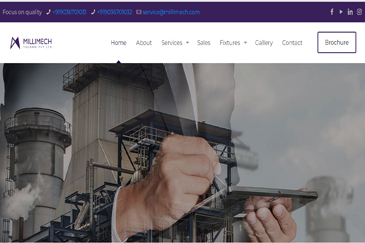
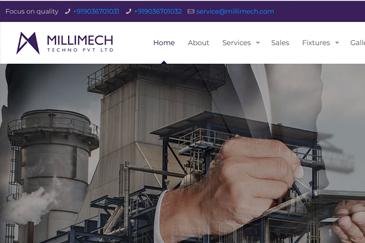
Add files via upload
latest update

diff --git a/projects.html b/projects.html
@@ -229,90 +229,43 @@
 				
                <!-- gallery item -->
               <div class="item email gallery-item">
-                <div class="picframe wow"> <a  class="image-popup" href="images/fb5_t.jpg" target="_blank"> <span class="overlay"> <span class="pf_text"> <span class="project-name">View More</span> </span> </span> <img src="images/fb5_t.jpg" alt="" /> </a> </div>
+                <div class="picframe wow"> <a  class="image-popup" href="images/e1.jpg" target="_blank"> <span class="overlay"> <span class="pf_text"> <span class="project-name">View More</span> </span> </span> <img src="images/e1t.jpg" alt="" /> </a> </div>
               </div>
               <!-- close gallery item --> 
           
               
                <!-- gallery item -->
               <div class="item email gallery-item">
-                <div class="picframe wow"> <a class="image-popup"  href="images/app2.jpg" target="_blank"> <span class="overlay"> <span class="pf_text"> <span class="project-name">View More</span> </span> </span> <img src="images/app2t.jpg" alt="" /> </a> </div>
+                <div class="picframe wow"> <a class="image-popup"  href="images/e2.jpg" target="_blank"> <span class="overlay"> <span class="pf_text"> <span class="project-name">View More</span> </span> </span> <img src="images/e2t.jpg" alt="" /> </a> </div>
               </div>
               <!-- close gallery item --> 
 				
 				 <!-- gallery item -->
               <div class="item email gallery-item">
-                <div class="picframe wow"> <a class="image-popup"  href="images/app3.jpg" target="_blank"> <span class="overlay"> <span class="pf_text"> <span class="project-name">View More</span> </span> </span> <img src="images/app3t.jpg" alt="" /> </a> </div>
+                <div class="picframe wow"> <a class="image-popup"  href="images/e3.png" target="_blank"> <span class="overlay"> <span class="pf_text"> <span class="project-name">View More</span> </span> </span> <img src="images/e3t.jpg" alt="" /> </a> </div>
               </div>
               <!-- close gallery item --> 
 				
 				 <div class="item email gallery-item">
-                <div class="picframe wow"> <a class="image-popup"  href="images/app4.jpg" target="_blank"> <span class="overlay"> <span class="pf_text"> <span class="project-name">View More</span> </span> </span> <img src="images/app4t.jpg" alt="" /> </a> </div>
-              </div>
-              <!-- close gallery item --> 
-				
-				
-				 <div class="item email gallery-item">
-                <div class="picframe wow"> <a class="image-popup"  href="images/app6.jpg" target="_blank"> <span class="overlay"> <span class="pf_text"> <span class="project-name">View More</span> </span> </span> <img src="images/app6t.jpg" alt="" /> </a> </div>
-              </div>
-              <!-- close gallery item --> 
-				
-				 <div class="item email gallery-item">
-                <div class="picframe wow"> <a class="image-popup"  href="images/app7.jpg" target="_blank"> <span class="overlay"> <span class="pf_text"> <span class="project-name">View More</span> </span> </span> <img src="images/app7t.jpg" alt="" /> </a> </div>
-              </div>
-              <!-- close gallery item --> 
-				
-               <div class="item email gallery-item">
-                <div class="picframe wow"> <a class="image-popup"  href="images/app8.jpg" target="_blank"> <span class="overlay"> <span class="pf_text"> <span class="project-name">View More</span> </span> </span> <img src="images/app8t.jpg" alt="" /> </a> </div>
-              </div>
-              <!-- close gallery item --> 
-            
-				
-				
-				 <div class="item email gallery-item">
-                <div class="picframe wow"> <a class="image-popup"  href="images/app9.jpg" target="_blank"> <span class="overlay"> <span class="pf_text"> <span class="project-name">View More</span> </span> </span> <img src="images/app9t.jpg" alt="" /> </a> </div>
-              </div>
-              <!-- close gallery item --> 
-				
-				
-            
-				 <div class="item email gallery-item">
-                <div class="picframe wow"> <a class="image-popup"  href="images/app10.jpg" target="_blank"> <span class="overlay"> <span class="pf_text"> <span class="project-name">View More</span> </span> </span> <img src="images/app10t.jpg" alt="" /> </a> </div>
+                <div class="picframe wow"> <a class="image-popup"  href="images/e4.jpg" target="_blank"> <span class="overlay"> <span class="pf_text"> <span class="project-name">View More</span> </span> </span> <img src="images/e4t.jpg" alt="" /> </a> </div>
               </div>
               <!-- close gallery item --> 
 				
 				
 				 <div class="item email gallery-item">
-                <div class="picframe wow"> <a class="image-popup"  href="images/app11.jpg" target="_blank"> <span class="overlay"> <span class="pf_text"> <span class="project-name">View More</span> </span> </span> <img src="images/app11t.jpg" alt="" /> </a> </div>
+                <div class="picframe wow"> <a class="image-popup"  href="images/e7.jpg" target="_blank"> <span class="overlay"> <span class="pf_text"> <span class="project-name">View More</span> </span> </span> <img src="images/e7t.jpg" alt="" /> </a> </div>
               </div>
               <!-- close gallery item --> 
-				
 				
 				 <div class="item email gallery-item">
-                <div class="picframe wow"> <a class="image-popup"  href="images/app12.jpg" target="_blank"> <span class="overlay"> <span class="pf_text"> <span class="project-name">View More</span> </span> </span> <img src="images/app12t.jpg" alt="" /> </a> </div>
+                <div class="picframe wow"> <a class="image-popup"  href="images/e5.jpg" target="_blank"> <span class="overlay"> <span class="pf_text"> <span class="project-name">View More</span> </span> </span> <img src="images/e5t.jpg" alt="" /> </a> </div>
               </div>
               <!-- close gallery item --> 
 				
-				
-				 <div class="item email gallery-item">
-                <div class="picframe wow"> <a class="image-popup"  href="images/app13.jpg" target="_blank"> <span class="overlay"> <span class="pf_text"> <span class="project-name">View More</span> </span> </span> <img src="images/app13t.jpg" alt="" /> </a> </div>
-              </div>
-              <!-- close gallery item --> 
-				
-				
-				 <div class="item email gallery-item">
-                <div class="picframe wow"> <a class="image-popup"  href="images/app14.jpg" target="_blank"> <span class="overlay"> <span class="pf_text"> <span class="project-name">View More</span> </span> </span> <img src="images/app14t.jpg" alt="" /> </a> </div>
-              </div>
-              <!-- close gallery item --> 
-				
-				
-				 <div class="item email gallery-item">
-                <div class="picframe wow"> <a class="image-popup"  href="images/app15.jpg" target="_blank"> <span class="overlay"> <span class="pf_text"> <span class="project-name">View More</span> </span> </span> <img src="images/app15t.jpg" alt="" /> </a> </div>
-              </div>
-              <!-- close gallery item --> 
+               
 				
 				<div class="item design gallery-item">
-                <div class="picframe wow"> <a class="image-popup" href="images/Branding/fb1.jpg"> <span class="overlay"> <span class="pf_text"> <span class="project-name">View</span> </span> </span> <img src="images/fb1_t.jpg" alt="" /> </a> </div>
+                <div class="picframe wow"> <a class="image-popup" href="images/sm1.jpg"> <span class="overlay"> <span class="pf_text"> <span class="project-name">View</span> </span> </span> <img src="images/sm1t.jpg" alt="" /> </a> </div>
               </div>
               <!-- close gallery item --> 
               
@@ -320,7 +273,7 @@
              
                    <!-- gallery item -->
               <div class="item design gallery-item">
-                <div class="picframe wow"> <a class="image-popup" href="images/Branding/fb2.jpg"> <span class="overlay"> <span class="pf_text"> <span class="project-name">View</span> </span> </span> <img src="images/fb2_t.jpg" alt="" /> </a> </div>
+                <div class="picframe wow"> <a class="image-popup" href="images/sm2.jpg"> <span class="overlay"> <span class="pf_text"> <span class="project-name">View</span> </span> </span> <img src="images/sm2t.jpg" alt="" /> </a> </div>
               </div>
               <!-- close gallery item --> 
               
@@ -328,14 +281,14 @@
              
                    <!-- gallery item -->
               <div class="item design gallery-item">
-                <div class="picframe wow"> <a class="image-popup" href="images/Branding/fb3.jpg"> <span class="overlay"> <span class="pf_text"> <span class="project-name">View</span> </span> </span> <img src="images/fb3_t.jpg" alt="" /> </a> </div>
+                <div class="picframe wow"> <a class="image-popup" href="images/sm3.jpg"> <span class="overlay"> <span class="pf_text"> <span class="project-name">View</span> </span> </span> <img src="images/sm3t.jpg" alt="" /> </a> </div>
               </div>
               <!-- close gallery item -->
               
               
                     <!-- gallery item -->
               <div class="item design gallery-item">
-                <div class="picframe wow"> <a class="image-popup" href="images/Branding/fb4.jpg"> <span class="overlay"> <span class="pf_text"> <span class="project-name">View</span> </span> </span> <img src="images/fb4_t.jpg" alt="" /> </a> </div>
+                <div class="picframe wow"> <a class="image-popup" href="images/sm4.jpg"> <span class="overlay"> <span class="pf_text"> <span class="project-name">View</span> </span> </span> <img src="images/sm4t.jpg" alt="" /> </a> </div>
               </div>
               <!-- close gallery item --> 
               
@@ -343,7 +296,7 @@
              
                    <!-- gallery item -->
               <div class="item design gallery-item">
-                <div class="picframe wow"> <a class="image-popup" href="images/Branding/fb5.jpg"> <span class="overlay"> <span class="pf_text"> <span class="project-name">View</span> </span> </span> <img src="images/fb5_t.jpg" alt="" /> </a> </div>
+                <div class="picframe wow"> <a class="image-popup" href="images/sm5.jpg"> <span class="overlay"> <span class="pf_text"> <span class="project-name">View</span> </span> </span> <img src="images/sm5t.jpg" alt="" /> </a> </div>
               </div>
               <!-- close gallery item --> 
               
@@ -351,110 +304,12 @@
              
                    <!-- gallery item -->
               <div class="item design gallery-item">
-                <div class="picframe wow"> <a class="image-popup" href="images/Branding/fb6.jpg"> <span class="overlay"> <span class="pf_text"> <span class="project-name">View</span> </span> </span> <img src="images/fb6_t.jpg" alt="" /> </a> </div>
+                <div class="picframe wow"> <a class="image-popup" href="images/sm6.png"> <span class="overlay"> <span class="pf_text"> <span class="project-name">View</span> </span> </span> <img src="images/sm6t.jpg" alt="" /> </a> </div>
               </div>
               <!-- close gallery item -->
               
               
-              
-                    <!-- gallery item -->
-              <div class="item design gallery-item">
-                <div class="picframe wow"> <a class="image-popup" href="images/Branding/fb7.jpg"> <span class="overlay"> <span class="pf_text"> <span class="project-name">View</span> </span> </span> <img src="images/fb7_t.jpg" alt="" /> </a> </div>
-              </div>
-              <!-- close gallery item --> 
-              
-              
-             
-                   <!-- gallery item -->
-              <div class="item design gallery-item">
-                <div class="picframe wow"> <a class="image-popup" href="images/Branding/fb8.jpg"> <span class="overlay"> <span class="pf_text"> <span class="project-name">View</span> </span> </span> <img src="images/fb8_t.jpg" alt="" /> </a> </div>
-              </div>
-              <!-- close gallery item --> 
-              
-              
-             
-                   <!-- gallery item -->
-              <div class="item design gallery-item">
-                <div class="picframe wow"> <a class="image-popup" href="images/Branding/fb9.jpg"> <span class="overlay"> <span class="pf_text"> <span class="project-name">View</span> </span> </span> <img src="images/fb9_t.jpg" alt="" /> </a> </div>
-              </div>
-              <!-- close gallery item -->
-              
-              
-              
-                    <!-- gallery item -->
-              <div class="item design gallery-item">
-                <div class="picframe wow"> <a class="image-popup" href="images/Branding/logo1.jpg"> <span class="overlay"> <span class="pf_text"> <span class="project-name">View</span> </span> </span> <img src="images/logo1_t.jpg" alt="" /> </a> </div>
-              </div>
-              <!-- close gallery item --> 
-              
-              
-             
-                    <!-- gallery item -->
-              <div class="item design gallery-item">
-                <div class="picframe wow"> <a class="image-popup" href="images/Branding/logo2.jpg"> <span class="overlay"> <span class="pf_text"> <span class="project-name">View</span> </span> </span> <img src="images/logo2_t.jpg" alt="" /> </a> </div>
-              </div>
-              <!-- close gallery item --> 
-              
-              
-                 <!-- gallery item -->
-              <div class="item design gallery-item">
-                <div class="picframe wow"> <a class="image-popup" href="images/Branding/logo3.jpg"> <span class="overlay"> <span class="pf_text"> <span class="project-name">View</span> </span> </span> <img src="images/logo3_t.jpg" alt="" /> </a> </div>
-              </div>
-              <!-- close gallery item --> 
-              
-              
-              
-                    <!-- gallery item -->
-              <div class="item design gallery-item">
-                <div class="picframe wow"> <a class="image-popup" href="images/Branding/logo4.jpg"> <span class="overlay"> <span class="pf_text"> <span class="project-name">View</span> </span> </span> <img src="images/logo4_t.jpg" alt="" /> </a> </div>
-              </div>
-              <!-- close gallery item --> 
-              
-              
-                    <!-- gallery item -->
-              <div class="item design gallery-item">
-                <div class="picframe wow"> <a class="image-popup" href="images/Branding/logo5.jpg"> <span class="overlay"> <span class="pf_text"> <span class="project-name">View</span> </span> </span> <img src="images/logo5_t.jpg" alt="" /> </a> </div>
-              </div>
-              <!-- close gallery item --> 
-              
-              
-              
-              
-              
-              
-              
-              
-                      <!-- gallery item -->
-              <div class="item design gallery-item">
-                <div class="picframe wow"> <a class="image-popup" href="images/Branding/design1.jpg"> <span class="overlay"> <span class="pf_text"> <span class="project-name">View</span> </span> </span> <img src="images/design1pop.jpg" alt="" /> </a> </div>
-              </div>
-              <!-- close gallery item -->
-				
-				
-				
-				
-				
-              <!-- gallery item --
-              <div class="item photography gallery-item">
-                <div class="picframe wow"> <a class="image-popup" href="images/portfolio/pf%20(2).jpg"> <span class="overlay"> <span class="pf_text"> <span class="project-name">Project Name</span> </span> </span> <img src="images/portfolio/pf%20(2).jpg" alt="" /> </a> </div>
-              </div>
-              <!-- close gallery item -->
-              
-              
-                <!-- gallery item --
-              <div class="item photography gallery-item">
-                <div class="picframe wow"> <a class="image-popup" href="images/portfolio/pf%20(2).jpg"> <span class="overlay"> <span class="pf_text"> <span class="project-name">Project Name</span> </span> </span> <img src="images/portfolio/pf%20(2).jpg" alt="" /> </a> </div>
-              </div>
-              <!-- close gallery item -->
-              
-              
-                <!-- gallery item --
-              <div class="item photography gallery-item">
-                <div class="picframe wow"> <a class="image-popup" href="images/portfolio/pf%20(2).jpg"> <span class="overlay"> <span class="pf_text"> <span class="project-name">Project Name</span> </span> </span> <img src="images/portfolio/pf%20(2).jpg" alt="" /> </a> </div>
-              </div>
-              <!-- close gallery item --> 
-              
-             
+           
               
             </div>
             

diff --git a/index.html b/index.html
@@ -224,7 +224,7 @@
           
         </div>
         
-       <div class="read-more text-center"><a href="images/resume.pdf" target="_blank">Downoad Resume</a></div>
+       <div class="read-more text-center"><a href="images/resume.pdf" target="_blank">Download Resume</a></div>
         
         
         
@@ -400,7 +400,7 @@
               
                  <!-- gallery item -->
               <div class="item design gallery-item">
-                <div class="picframe wow"> <a  href="projects.html" target="_blank"> <span class="overlay"> <span class="pf_text"> <span class="project-name">View More</span> </span> </span> <img src="images/fb1_t.jpg" alt="" /> </a> </div>
+                <div class="picframe wow"> <a  href="projects.html" target="_blank"> <span class="overlay"> <span class="pf_text"> <span class="project-name">View More</span> </span> </span> <img src="images/sm1t.jpg" alt="" /> </a> </div>
               </div>
               <!-- close gallery item --> 
               
@@ -408,7 +408,7 @@
              
                  <!-- gallery item -->
               <div class="item design gallery-item">
-                <div class="picframe wow"> <a  href="projects.html" target="_blank"> <span class="overlay"> <span class="pf_text"> <span class="project-name">View More</span> </span> </span> <img src="images/fb4_t.jpg" alt="" /> </a> </div>
+                <div class="picframe wow"> <a  href="projects.html" target="_blank"> <span class="overlay"> <span class="pf_text"> <span class="project-name">View More</span> </span> </span> <img src="images/sm2t.jpg" alt="" /> </a> </div>
               </div>
               <!-- close gallery item --> 
               
@@ -416,7 +416,7 @@
              
                  <!-- gallery item -->
               <div class="item design gallery-item">
-                <div class="picframe wow"> <a  href="projects.html" target="_blank"> <span class="overlay"> <span class="pf_text"> <span class="project-name">View More</span> </span> </span> <img src="images/logo4_t.jpg" alt="" /> </a> </div>
+                <div class="picframe wow"> <a  href="projects.html" target="_blank"> <span class="overlay"> <span class="pf_text"> <span class="project-name">View More</span> </span> </span> <img src="images/sm3t.jpg" alt="" /> </a> </div>
               </div>
               <!-- close gallery item --> 
               
@@ -550,52 +550,7 @@
     </section>
     <!-- section close --> 
     
-    <!-- section begin -->
-    <!--<section id="section-testimonial">
-      <div class="container">
-        <div class="row">
-          <div class="col-md-12 text-center">
-            <h5><span class="id-color">Testimonials</span></h5>
-            <h2>What They Says</h2>
-          </div>
-          <div id="testimonial-carousel" class="de_carousel sequence" data-wow-delay=".3s">
-            <div class="col-md-6 item sq-item wow">
-              <div class="de_testi opt-2">
-                <blockquote>
-                  <div class="de_testi_by"> <img src="images/people/1.jpg" class="img-circle" alt=""> <span>John, Pixar Studio</span> </div>
-                  <p>"Neque porro quisquam est, qui dolorem ipsum quia dolor sit amet, consectetur, adipisci velit, sed quia non numquam eius modi tempora incidunt ut labore et dolore"</p>
-                </blockquote>
-              </div>
-            </div>
-            <div class="col-md-6 item sq-item wow">
-              <div class="de_testi opt-2">
-                <blockquote>
-                  <div class="de_testi_by"> <img src="images/people/2.jpg" class="img-circle" alt=""> <span>Sarah, Microsoft</span> </div>
-                  <p>"Neque porro quisquam est, qui dolorem ipsum quia dolor sit amet, consectetur, adipisci velit, sed quia non numquam eius modi tempora incidunt ut labore et dolore"</p>
-                </blockquote>
-              </div>
-            </div>
-            <div class="col-md-6 item sq-item wow">
-              <div class="de_testi opt-2">
-                <blockquote>
-                  <div class="de_testi_by"> <img src="images/people/3.jpg" class="img-circle" alt=""> <span>Michael, Apple</span> </div>
-                  <p>"Neque porro quisquam est, qui dolorem ipsum quia dolor sit amet, consectetur, adipisci velit, sed quia non numquam eius modi tempora incidunt ut labore et dolore"</p>
-                </blockquote>
-              </div>
-            </div>
-            <div class="col-md-6 item sq-item wow">
-              <div class="de_testi opt-2">
-                <blockquote>
-                  <div class="de_testi_by"> <img src="images/people/4.jpg" class="img-circle" alt=""> <span>Thomas, Samsung</span> </div>
-                  <p>"Neque porro quisquam est, qui dolorem ipsum quia dolor sit amet, consectetur, adipisci velit, sed quia non numquam eius modi tempora incidunt ut labore et dolore"</p>
-                </blockquote>
-              </div>
-            </div>
-          </div>
-        </div>
-      </div>
-    </section>-->
-    <!-- section close --> 
+    
     
     <!-- section begin -->
     <section id="section-fun-facts" class="pt60 pb60 text-light" data-bgcolor="#202020">
@@ -659,7 +614,7 @@
           </div>
           <div class="col-md-6">
             <address>
-            <span><i class="fa fa-map-marker fa-lg"></i>Bangalore</span> <span><i class="fa fa-phone fa-lg"></i>+91 8547415180</span> <span><i class="fa fa-envelope-o fa-lg"></i><a href="mailto:[email redacted]">[email redacted]</a></span> <span><i class="fa fa-file-pdf-o fa-lg"></i><a href="images/resume.pdf" target="_blank">Download Resume</a></span>
+            <span><i class="fa fa-map-marker fa-lg"></i>Bangalore</span> <span><i class="fa fa-phone fa-lg"></i>+91 9656415180</span> <span><i class="fa fa-envelope-o fa-lg"></i><a href="mailto:[email redacted]">[email redacted]</a></span> <span><i class="fa fa-file-pdf-o fa-lg"></i><a href="images/resume.pdf" target="_blank">Download Resume</a></span>
             </address>
           </div>
         </div>